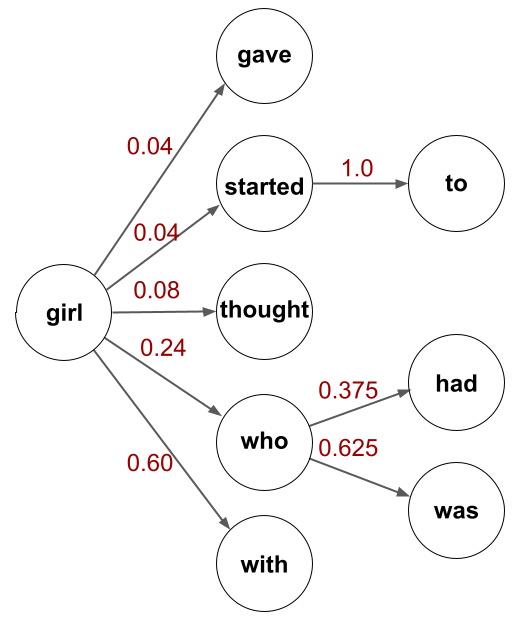
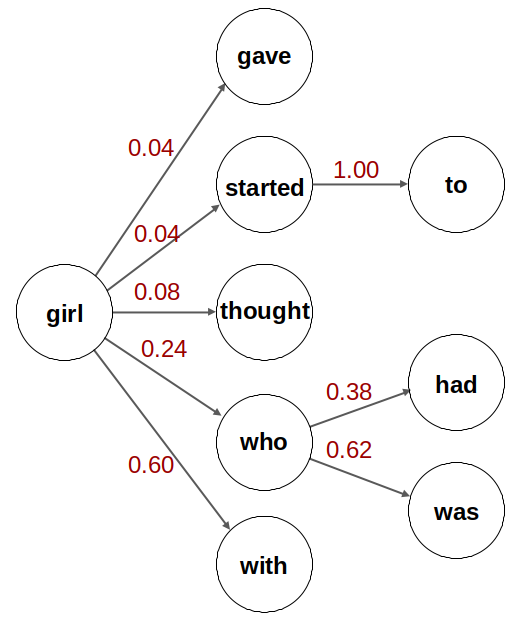
Tweak diagram in About page

diff --git a/about.html b/about.html
@@ -257,11 +257,11 @@
 	    <tr>
 	      <td>girl</td>
 	      <td>
-		gave (1) <br/>
-		started (1) <br/>
-		thought (2) <br/>
-		who (6) <br/>
-		with (15)
+		gave (0.04) <br/>
+		started (0.04) <br/>
+		thought (0.08) <br/>
+		who (0.24) <br/>
+		with (0.60)
 	      </td>
 	    </tr>
 
@@ -269,7 +269,7 @@
 
 	    <tr>
 	      <td>started</td>
-	      <td>to (28) </td>
+	      <td>to (1.00) </td>
 	    <tr>
 
 	    <tr><td>thought</td><td>&nbsp; ...</td></tr>
@@ -281,8 +281,8 @@
 	    <tr>
 	      <td>who</td>
 	      <td>
-		had (21) <br/>
-		was (35)
+		had (0.38) <br/>
+		was (0.62)
 	      </td>
 	    </tr>
 
